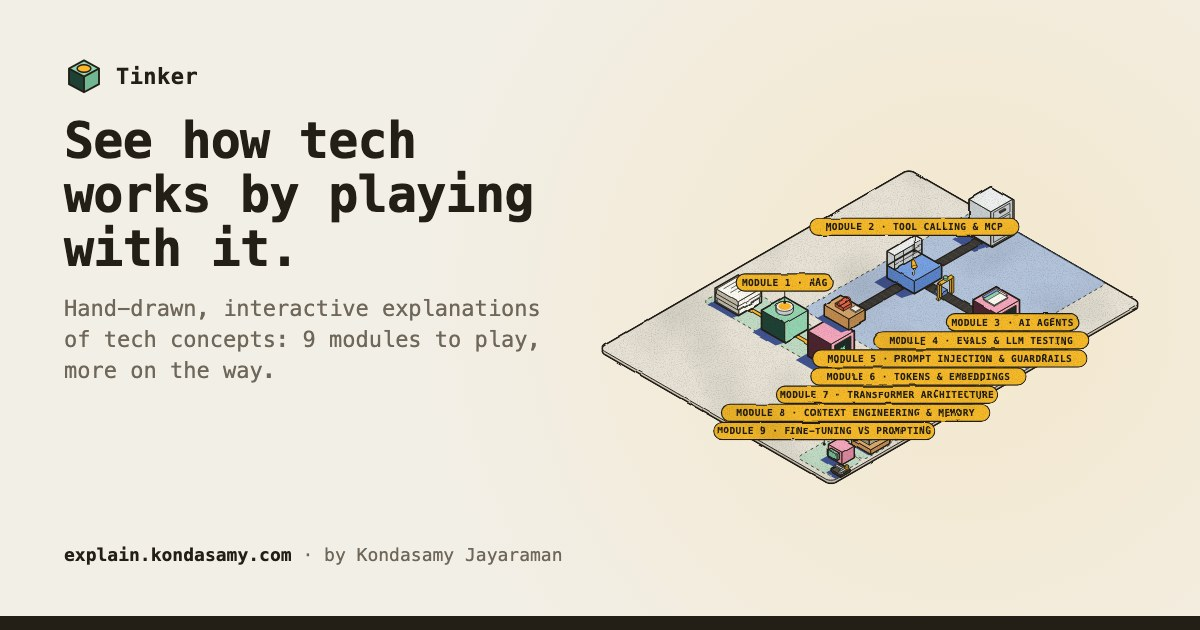
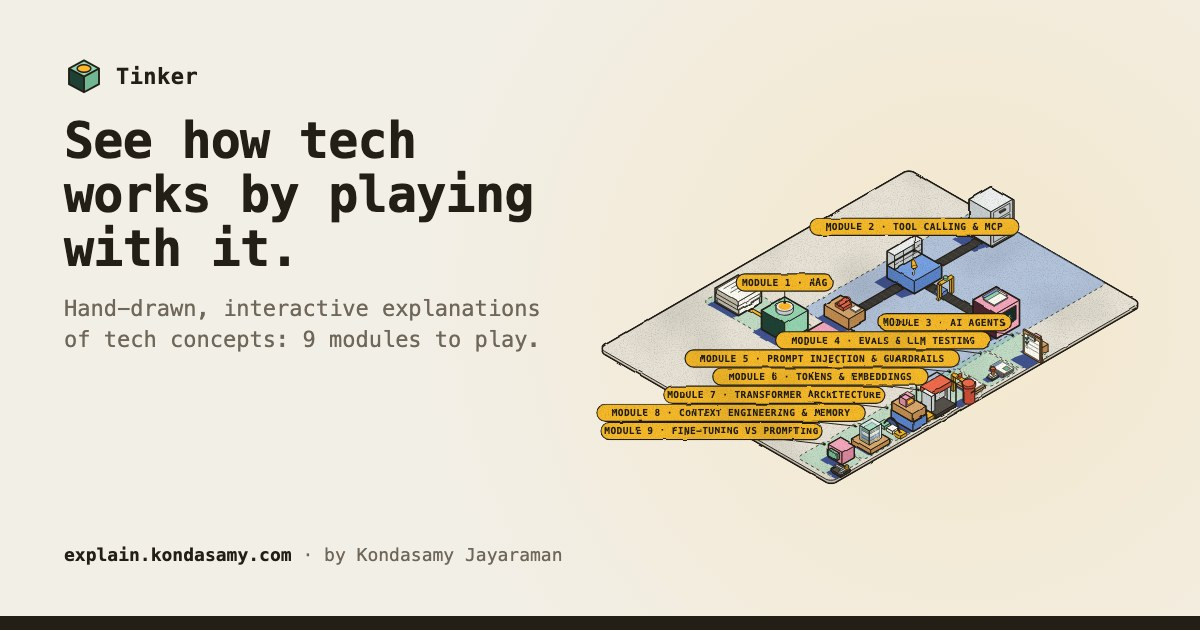
feat(home): read right with an empty roadmap, and link to propose a module
The hero label and caption name building sites only while a module is planned
(heroLabel), the home share text drops "more on the way" when nothing is
planned, and the catalogue ends on a Propose a module link to CONTRIBUTING.md.
The planned path stays for contributors: planned() is exported, and a unit test
draws a building site from a planned fixture. The catalogue spec checks nine
live cards by level and no roadmap card, at 1280 and 390 px.

Changed region(s): [[0.4933, 0.4825, 0.925, 0.7238], [0.0308, 0.573, 0.2158, 0.6032]]

diff --git a/tests/e2e/catalogue.spec.ts b/tests/e2e/catalogue.spec.ts
@@ -5,20 +5,20 @@ import { MODULES } from '../../src/lib/modules';
 
 const catalogue = (page: import('@playwright/test').Page) => page.locator('#modules');
 
-test('levels in order, RAG under Beginner, planned modules as cards with no link', async ({ page }) => {
+// the roadmap is empty (U23): every module is a live card at its level, and the roadmap area is a link to propose one.
+// The planned-card path stays for contributors; tests/unit/hero.test.ts keeps it tested with a planned fixture.
+for (const width of [1280, 390]) test(`levels in order, nine live modules grouped by level, no roadmap card, a Propose a module link (${width}px)`, async ({ page }) => {
+  await page.setViewportSize({ width, height: 900 });
   await page.goto('/');
   await expect(catalogue(page).locator('[data-level] > h3')).toHaveText(['Beginner', 'Intermediate', 'Advanced']);
-  await expect(page.locator('[data-level="Beginner"] [data-module="rag"]')).toBeVisible();
-  const planned = MODULES.filter(m => m.status === 'planned');
-  const cards = catalogue(page).locator('.roadmap');
-  await expect(cards).toHaveCount(planned.length);
-  for (const m of planned) {
-    const card = page.locator(`[data-level="${m.level}"] .roadmap[data-module="${m.id}"]`);
-    await expect(card).toContainText(m.title);
-    await expect(card).toContainText('Planned');
-    await expect(card).toHaveAttribute('id', `module-${m.id}`);
-  }
-  await expect(cards.locator('a, button, [tabindex]')).toHaveCount(0);
+  const live = MODULES.filter(m => m.status === 'live');
+  expect(live).toHaveLength(9);
+  await expect(catalogue(page).locator('.module')).toHaveCount(9);
+  for (const m of live) await expect(page.locator(`[data-level="${m.level}"] .module[data-module="${m.id}"]`)).toBeVisible();
+  await expect(catalogue(page).locator('.roadmap')).toHaveCount(0);
+  await expect(catalogue(page).locator('.coming')).toHaveCount(0);
+  await expect(catalogue(page).getByRole('link', { name: 'Propose a module' })).toHaveAttribute('href', 'https://github.com/Kondasamy/tinker/blob/main/CONTRIBUTING.md');
+  await expect(page.locator('.hero-pic figcaption')).not.toContainText('empty plots');
   await expect(page.getByText('In the workshop')).toHaveCount(0);
 });
 

diff --git a/tests/unit/hero.test.ts b/tests/unit/hero.test.ts
@@ -3,8 +3,9 @@ import { describe, it, expect } from 'vitest';
 import { createElement } from 'react';
 import { renderToString } from 'react-dom/server';
 import IsoStage from '../../src/lib/iso/IsoStage';
-import { HERO_BOARD, HOME_HERO, HOME_HERO_LABEL, heroBoard, heroScene, plotAt } from '../../src/components/scenes/heroScene';
+import { HERO_BOARD, HOME_HERO, HOME_HERO_LABEL, heroBoard, heroLabel, heroScene, plotAt } from '../../src/components/scenes/heroScene';
 import { MODULES } from '../../src/lib/modules';
+import { PALS, WOOD } from '../../src/lib/iso/core.js';
 
 const draw = (board = HERO_BOARD, scene = HOME_HERO) => renderToString(createElement(IsoStage, { board, scene, label: '' }));
 const upper = (s: string) => s.toUpperCase().replace(/&/g, '&amp;');
@@ -40,5 +41,21 @@ describe('home hero', () => {
 
   it('the label names every module', () => {
     for (const m of MODULES) expect(HOME_HERO_LABEL).toContain(m.title);
+  });
+
+  it('names building sites only while some module is planned', () => {
+    expect(HOME_HERO_LABEL.includes('building sites')).toBe(MODULES.some(m => m.status === 'planned'));
+    expect(heroLabel(['RAG', 'Tool calling'], [])).toBe('Tinker as one workshop with a plot per module: RAG and Tool calling, live.');
+  });
+
+  // the roadmap is empty, but the planned path stays for contributors (KTD14): a planned fixture still gets its site and its words
+  it('a planned fixture still draws a building site (crate and cones) and the label names it', () => {
+    const count = (svg: string, colour: string) => svg.split(colour).length - 1;
+    const site = draw(heroBoard(1), heroScene({ live: [{ name: 'One' }, { name: 'Two' }], planned: [{ name: 'demo' }], ride: [] }));
+    const live = draw(heroBoard(1), heroScene({ live: [{ name: 'One' }, { name: 'Two' }, { name: 'Three' }], planned: [], ride: [] }));
+    expect(site).toContain('SOON: DEMO');
+    expect(count(site, WOOD.l)).toBeGreaterThan(count(live, WOOD.l));
+    expect(count(site, PALS.tomato.l)).toBeGreaterThan(count(live, PALS.tomato.l));
+    expect(heroLabel(['RAG'], ['Demo'])).toBe('Tinker as one workshop with a plot per module: RAG, live, and building sites for Demo.');
   });
 });

diff --git a/src/components/scenes/heroScene.ts b/src/components/scenes/heroScene.ts
@@ -102,4 +102,7 @@ const LIVE = MODULES.filter(m => m.status === 'live'), PLANNED = MODULES.filter(
 /** the home page's picture (and its share image), from the registry: the model's call riding to the host */
 export const HERO_BOARD = heroBoard(LIVE.length - 2 + PLANNED.length);
 export const HOME_HERO = heroScene({ live: LIVE.map((m, i) => ({ name: `Module ${i + 1} · ${m.title}`, draw: DRAW[m.id] })), planned: PLANNED.map(m => ({ name: m.id.replace(/-/g, ' ') })), ride: SEQ_MSGS.slice(0, 3) });
-export const HOME_HERO_LABEL = `Tinker as one workshop with a plot per module: ${LIVE.map(m => m.title).join(' and ')}, live, and building sites for ${PLANNED.map(m => m.title).join(', ')}.`;
+/** the hero's accessible label: building sites are named only while some module is planned */
+export const heroLabel = (live: string[], planned: string[]) =>
+  `Tinker as one workshop with a plot per module: ${live.join(' and ')}, live${planned.length ? `, and building sites for ${planned.join(', ')}` : ''}.`;
+export const HOME_HERO_LABEL = heroLabel(LIVE.map(m => m.title), PLANNED.map(m => m.title));

diff --git a/src/lib/pages.ts b/src/lib/pages.ts
@@ -23,7 +23,7 @@ export const HOME: PageMeta = {
   description: 'Hand-drawn, interactive explanations of tech concepts. Build the thing, break it, fix it. By Kondasamy Jayaraman.',
   kicker: 'Tinker',
   headline: 'See how tech works by playing with it.',
-  sub: `Hand-drawn, interactive explanations of tech concepts: ${MODULES.filter(m => m.status === 'live').length} modules to play, more on the way.`,
+  sub: `Hand-drawn, interactive explanations of tech concepts: ${MODULES.filter(m => m.status === 'live').length} modules to play${MODULES.some(m => m.status === 'planned') ? ', more on the way' : ''}.`,
 };
 
 export const RAG: PageMeta = {

diff --git a/src/lib/modules.ts b/src/lib/modules.ts
@@ -48,7 +48,8 @@ export interface Module<C extends Chapter = Chapter> {
 }
 
 const AUTHOR = RAG_MODULE.author;
-const planned = (id: string, title: string, level: Level, description: string): Module =>
+/** a roadmap card: a module someone may build, with no chapters or pages yet (kept for contributors though the roadmap is empty) */
+export const planned = (id: string, title: string, level: Level, description: string): Module =>
   ({ id, title, description, level, status: 'planned', author: AUTHOR, prereqs: [], story: '', chapters: [] });
 
 export const MODULES: Module[] = [
